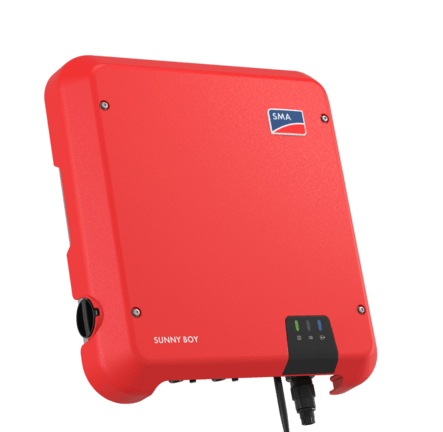
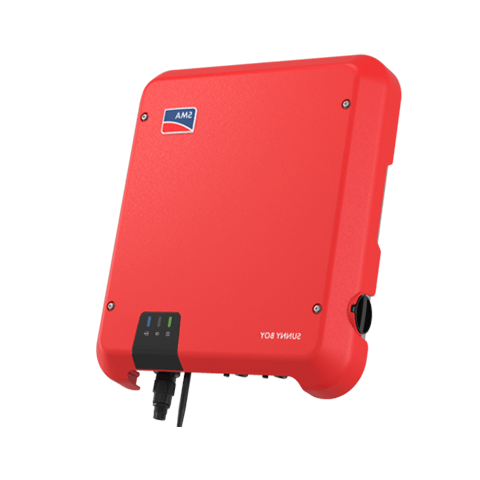
.

Changed region(s): [[0.088, 0.0903, 0.851, 1.0], [0.6456, 0.6319, 0.6749, 0.662]]

diff --git a/packages/packages-custom.css b/packages/packages-custom.css
@@ -381,10 +381,10 @@
   }
   #selected-inverter-image {
     position: absolute;
-    max-width: 250px;
-    max-height: 200px;
-    bottom: 10px;
-    right: 10px;
+    max-width: 300px;
+    max-height: 250px;
+    bottom: -20px;
+    right: -10px;
     object-fit: contain;
     visibility: hidden;
   }
